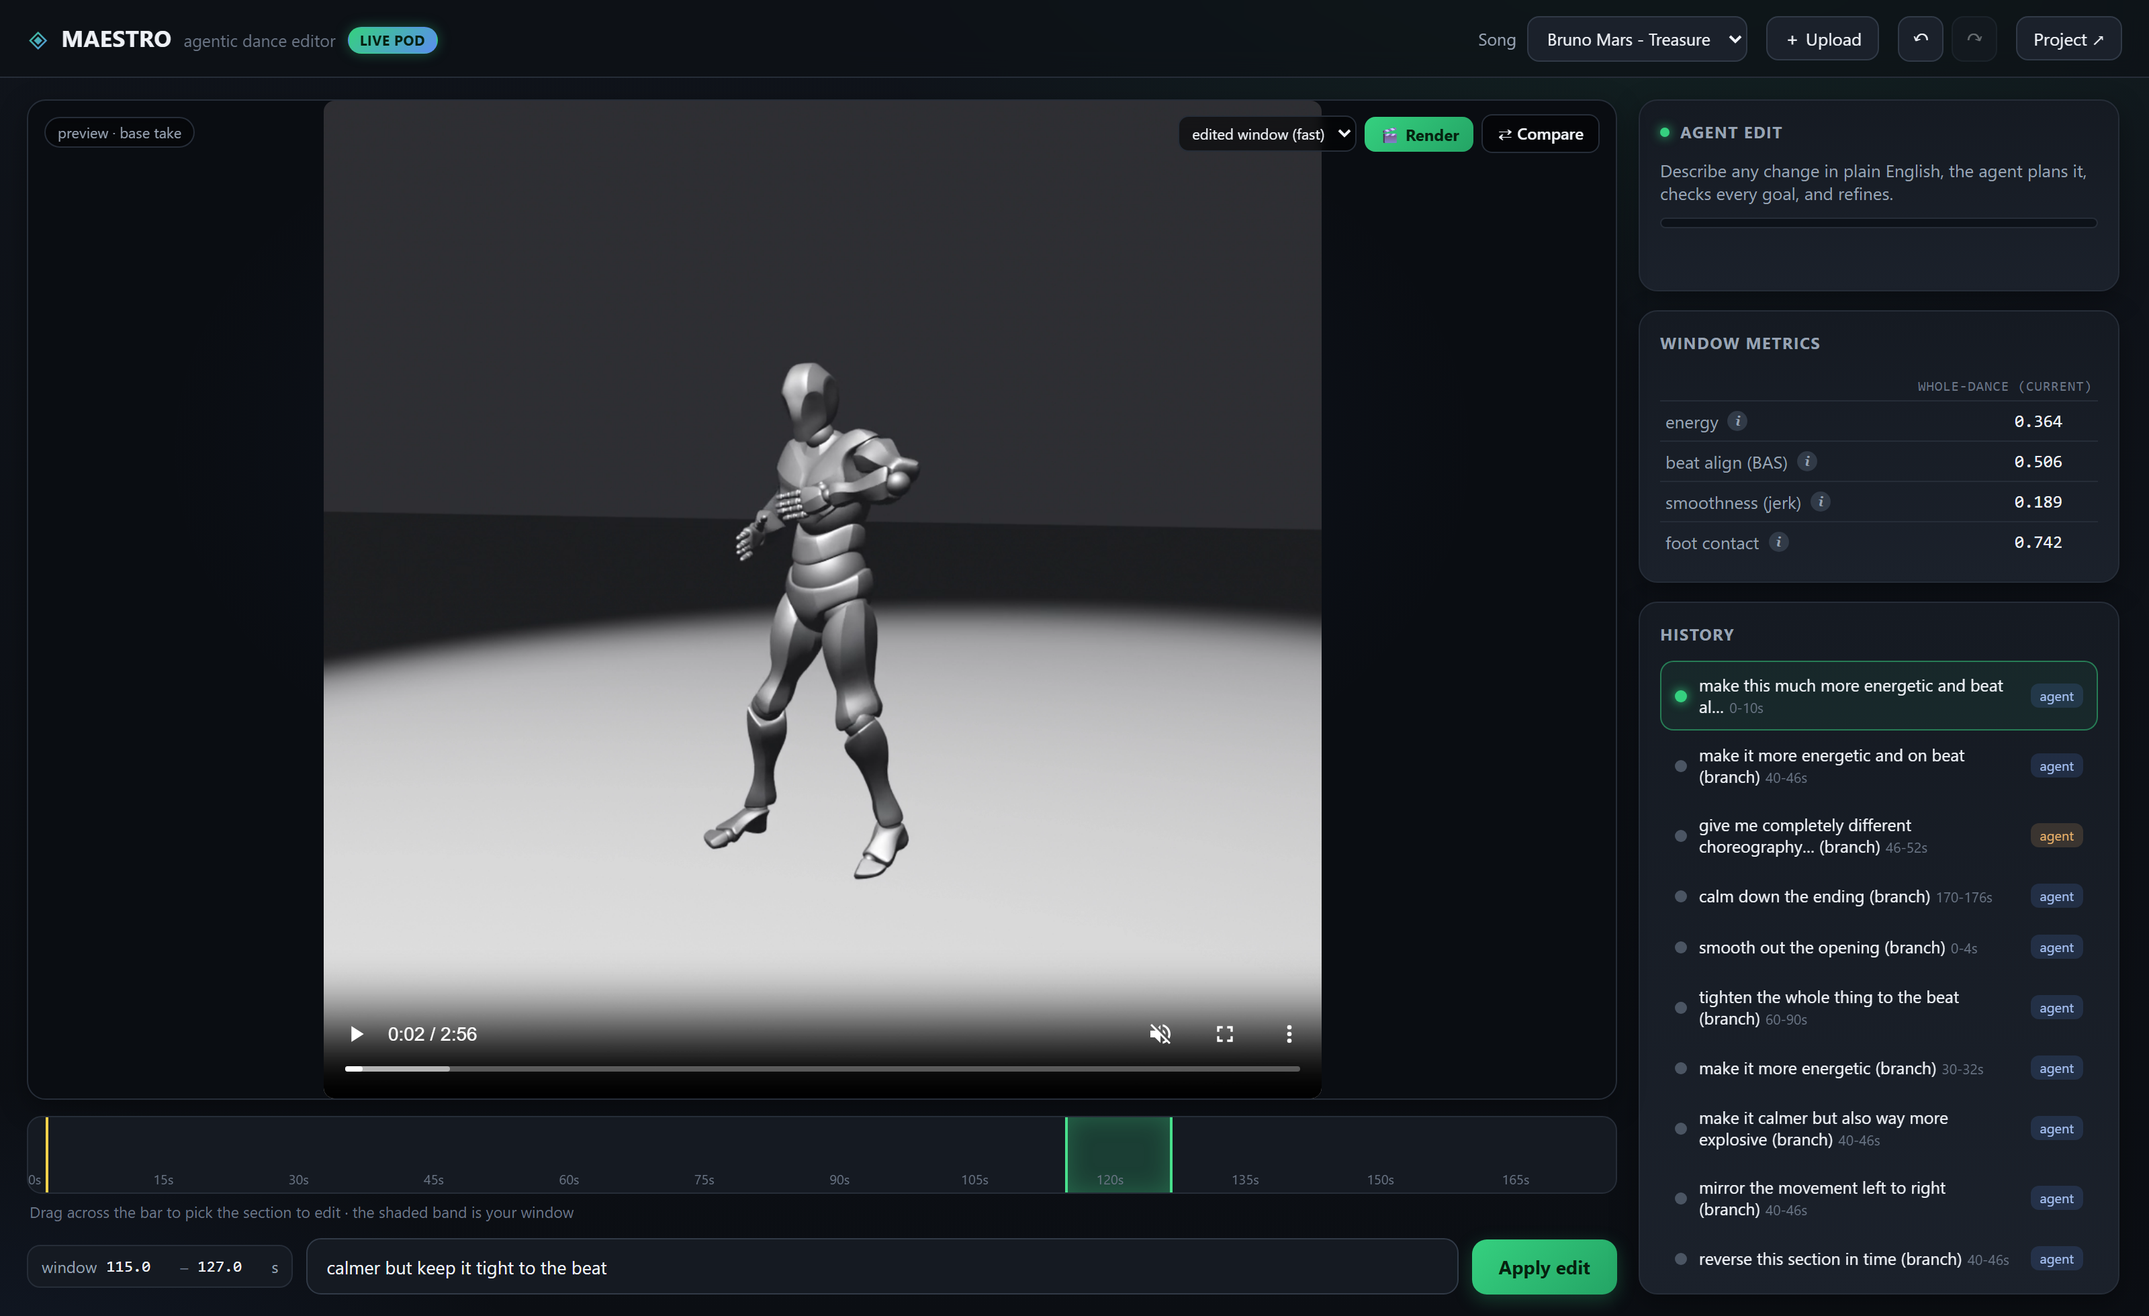
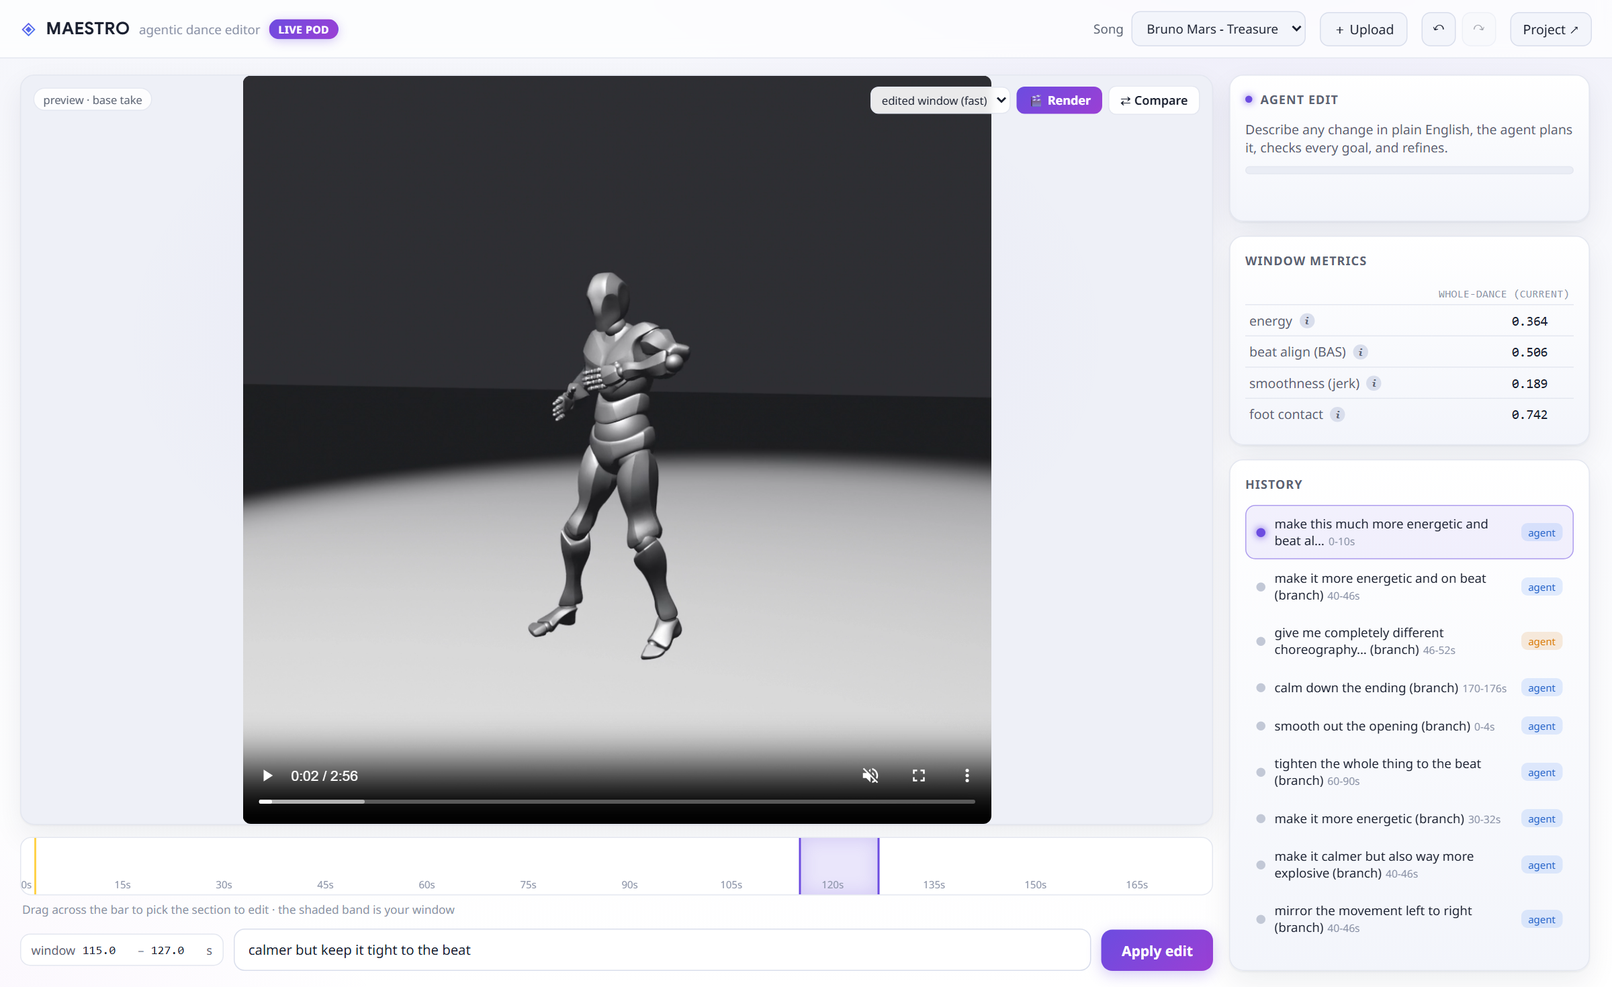
Light-theme the editor to match the project page + slideshow choreography examples
- server/static: convert the editor from the dark/green theme to the light/purple
  palette + Google Sans/Noto Sans fonts used on the project page (topbar, viewer,
  buttons, timeline selection, cards, metrics, reasoning, history, tooltip, toast).
- docs: render the choreography examples as a one-at-a-time carousel (prev/next +
  dots) so they no longer take the full page height.
- docs: refresh the live-editor screenshot to the new light UI.

diff --git a/server/static/style.css b/server/static/style.css
@@ -1,22 +1,23 @@
-/* ============ MAESTRO dance editor, single-viewport, friendly theme ============ */
+/* ============ MAESTRO dance editor, single-viewport, light theme (matches the project page) ============ */
 :root {
-  --bg0: #0b0e13; --bg1: #10141b;
-  --card: #151a22; --card2: #1b212b; --line: #262d38; --line2: #313a47;
-  --text: #eef1f6; --muted: #98a3b3; --faint: #6b7686;
-  --accent: #35d07f; --accent-2: #24a465; --blue: #5b8def; --edge: #f0913a;
-  --lodge: #5b8def; --reuse: #35c07a; --recap: #b473e6;
-  --sel: rgba(53,208,127,.20); --sel-line: #48e08c;
-  --ok: #6fe0a3; --warn: #f0b46a;
-  --shadow: 0 6px 20px rgba(0,0,0,.35); --radius: 14px;
-  --font: "Inter", "Segoe UI", system-ui, -apple-system, sans-serif;
+  --bg0: #ffffff; --bg1: #f5f6fb;
+  --card: #ffffff; --card2: #f3f5fb; --line: #e4e7f0; --line2: #d9deec;
+  --text: #1a2030; --muted: #5a6272; --faint: #8b93a7;
+  --accent: #6c4ce0; --accent-2: #9b3fd4; --blue: #3b82f6; --edge: #9333ea;
+  --lodge: #3b82f6; --reuse: #e0870a; --recap: #9333ea;
+  --sel: rgba(108,76,224,.14); --sel-line: #6c4ce0;
+  --ok: #1a9e5f; --warn: #d97a06;
+  --shadow: 0 1px 2px rgba(20,30,60,.05), 0 12px 30px rgba(20,30,60,.07); --radius: 14px;
+  --font: "Noto Sans", "Segoe UI", system-ui, -apple-system, sans-serif;
+  --head-font: "Google Sans", "Noto Sans", sans-serif;
 }
 * { box-sizing: border-box; }
 html, body { height: 100%; margin: 0; overflow: hidden; }
 body {
   font-family: var(--font); color: var(--text); font-size: 14px;
   background:
-    radial-gradient(1100px 600px at 78% -10%, rgba(53,208,127,.10), transparent 60%),
-    radial-gradient(900px 500px at -5% 110%, rgba(91,141,239,.10), transparent 55%),
+    radial-gradient(1100px 600px at 78% -10%, rgba(108,76,224,.07), transparent 60%),
+    radial-gradient(900px 500px at -5% 110%, rgba(155,63,212,.06), transparent 55%),
     linear-gradient(180deg, var(--bg1), var(--bg0));
 }
 .app { height: 100vh; display: flex; flex-direction: column; }
@@ -25,21 +26,21 @@ body {
 .topbar {
   flex: none; height: 58px; display: flex; align-items: center; justify-content: space-between;
   padding: 0 20px; border-bottom: 1px solid var(--line);
-  background: rgba(12,15,20,.6); backdrop-filter: blur(8px);
+  background: rgba(255,255,255,.72); backdrop-filter: blur(8px);
 }
 .brand { display: flex; align-items: baseline; gap: 9px; }
 .logo {
   font-size: 20px; line-height: 1; background: linear-gradient(135deg, var(--accent), var(--blue));
   -webkit-background-clip: text; background-clip: text; color: transparent; transform: translateY(2px);
 }
-.brand-name { font-weight: 750; font-size: 17px; letter-spacing: .2px; }
+.brand-name { font-weight: 800; font-size: 17px; letter-spacing: .2px; font-family: var(--head-font); }
 .brand-sub { color: var(--faint); font-size: 12.5px; }
 .genbadge {
   font-size: 10.5px; font-weight: 650; letter-spacing: .3px; text-transform: uppercase;
   padding: 2px 8px; border-radius: 999px; cursor: help; transform: translateY(-1px);
   border: 1px solid transparent; white-space: nowrap;
 }
-.genbadge.live { color: #06210f; background: linear-gradient(135deg, var(--accent), var(--blue)); box-shadow: 0 0 10px rgba(53,208,127,.35); }
+.genbadge.live { color: #fff; background: linear-gradient(135deg, var(--accent), var(--accent-2)); box-shadow: 0 2px 10px rgba(108,76,224,.3); }
 .genbadge.bank { color: var(--edge); border-color: rgba(240,145,58,.5); background: rgba(240,145,58,.10); }
 .genbadge.mock { color: var(--faint); border-color: var(--line); background: rgba(255,255,255,.03); }
 .tools { display: flex; align-items: center; gap: 14px; }
@@ -80,35 +81,35 @@ select {
 .viewer {
   flex: 1; min-height: 0; position: relative; display: flex; align-items: center; justify-content: center;
   background:
-    radial-gradient(60% 60% at 50% 35%, rgba(91,141,239,.07), transparent 70%), #0a0d12;
+    radial-gradient(60% 60% at 50% 35%, rgba(108,76,224,.06), transparent 70%), #eef0f7;
   border: 1px solid var(--line); border-radius: var(--radius); overflow: hidden; box-shadow: var(--shadow);
 }
 video { height: 100%; width: auto; max-width: 100%; object-fit: contain; display: block; border-radius: 8px; }
 .viewer-tag {
   position: absolute; top: 12px; left: 12px; font-size: 11px; color: var(--muted);
-  background: rgba(0,0,0,.4); border: 1px solid var(--line); padding: 3px 9px; border-radius: 999px;
+  background: rgba(255,255,255,.85); border: 1px solid var(--line); padding: 3px 9px; border-radius: 999px;
   backdrop-filter: blur(4px);
 }
 .render-ctl { position: absolute; top: 10px; right: 12px; display: flex; gap: 6px; align-items: center; z-index: 6; }
 .render-scope {
-  font-size: 11px; color: var(--text); background: rgba(0,0,0,.55); border: 1px solid var(--line);
+  font-size: 11px; color: var(--text); background: rgba(255,255,255,.9); border: 1px solid var(--line);
   border-radius: 8px; padding: 4px 6px; backdrop-filter: blur(4px); cursor: pointer;
 }
 .render-btn {
-  font-size: 12px; font-weight: 650; color: #06210f; cursor: pointer; padding: 5px 11px;
+  font-size: 12px; font-weight: 650; color: #fff; cursor: pointer; padding: 5px 11px;
   border: none; border-radius: 8px; background: linear-gradient(135deg, var(--accent), var(--accent-2));
 }
 .render-btn:disabled { opacity: .55; cursor: default; }
 .render-status {
   position: absolute; top: 46px; right: 12px; display: none; max-width: 60%; z-index: 6;
-  font-size: 11px; color: var(--muted); background: rgba(0,0,0,.6); border: 1px solid var(--line);
+  font-size: 11px; color: var(--muted); background: rgba(255,255,255,.9); border: 1px solid var(--line);
   padding: 4px 10px; border-radius: 999px; backdrop-filter: blur(4px);
 }
 .render-status.ok { color: var(--ok); border-color: rgba(53,208,127,.4); }
 .render-status.bad { color: var(--warn); border-color: rgba(240,180,106,.4); }
 
 /* before/after comparison panel */
-.render-btn.ghost { background: rgba(0,0,0,.5); color: var(--text); border: 1px solid var(--line); font-weight: 600; }
+.render-btn.ghost { background: rgba(255,255,255,.9); color: var(--text); border: 1px solid var(--line); font-weight: 600; }
 .compare {
   margin-top: 10px; background: var(--card); border: 1px solid var(--line);
   border-radius: var(--radius); padding: 12px; box-shadow: var(--shadow);
@@ -135,11 +136,11 @@ video { height: 100%; width: auto; max-width: 100%; object-fit: contain; display
   border-radius: 11px; overflow: hidden; cursor: crosshair; user-select: none;
 }
 .beats { position: absolute; inset: 0; pointer-events: none; }
-.beats i { position: absolute; top: 0; bottom: 20px; width: 1px; background: #2b333f; }
+.beats i { position: absolute; top: 0; bottom: 20px; width: 1px; background: #d3d9e6; }
 .selection {
   position: absolute; top: 0; bottom: 0; background: var(--sel);
   border-left: 2px solid var(--sel-line); border-right: 2px solid var(--sel-line);
-  display: none; pointer-events: none; box-shadow: 0 0 18px rgba(72,224,140,.25) inset;
+  display: none; pointer-events: none; box-shadow: 0 0 18px rgba(108,76,224,.20) inset;
 }
 .playhead { position: absolute; top: 0; bottom: 0; width: 2px; background: #ffd24a; left: 0; pointer-events: none; }
 .ticks { position: absolute; left: 0; right: 0; bottom: 3px; height: 14px; pointer-events: none; }
@@ -162,11 +163,11 @@ video { height: 100%; width: auto; max-width: 100%; object-fit: contain; display
   font-size: 13.5px;
 }
 .instr::placeholder { color: var(--faint); }
-.instr:focus { outline: none; border-color: var(--accent); box-shadow: 0 0 0 3px rgba(53,208,127,.14); }
+.instr:focus { outline: none; border-color: var(--accent); box-shadow: 0 0 0 3px rgba(108,76,224,.16); }
 .apply {
   flex: none; padding: 11px 20px; border-radius: 11px; border: none; cursor: pointer; font-weight: 650;
-  color: #06210f; background: linear-gradient(135deg, var(--accent), var(--accent-2));
-  box-shadow: 0 4px 14px rgba(53,208,127,.25); transition: .12s;
+  color: #fff; background: linear-gradient(135deg, var(--accent), var(--accent-2));
+  box-shadow: 0 4px 14px rgba(108,76,224,.28); transition: .12s;
 }
 .apply:hover:not(:disabled) { filter: brightness(1.06); transform: translateY(-1px); }
 .apply:disabled { opacity: .55; cursor: default; box-shadow: none; }
@@ -177,7 +178,7 @@ video { height: 100%; width: auto; max-width: 100%; object-fit: contain; display
   font-size: 12px; padding: 6px 12px; border-radius: 999px; background: var(--card); color: var(--muted);
   border: 1px solid var(--line); cursor: pointer; transition: .12s;
 }
-.chip:hover { color: var(--text); border-color: var(--accent); background: rgba(53,208,127,.08); }
+.chip:hover { color: var(--text); border-color: var(--accent); background: rgba(108,76,224,.08); }
 
 /* ---------- right column ---------- */
 .side-col { display: flex; flex-direction: column; gap: 14px; min-height: 0; padding-right: 2px; }
@@ -199,7 +200,7 @@ video { height: 100%; width: auto; max-width: 100%; object-fit: contain; display
 .goal .tag { display: inline-block; padding: 2px 9px; border-radius: 6px; font-weight: 650; color: #fff; margin-right: 6px; font-size: 12px; }
 .tag.edge { background: var(--edge); } .tag.lodge { background: var(--lodge); }
 .tag.none { background: #6b7686; } .tag.auto { background: #7a6bd6; }
-.progwrap { height: 8px; background: #0d1219; border: 1px solid var(--line); border-radius: 6px; overflow: hidden; }
+.progwrap { height: 8px; background: #eaedf5; border: 1px solid var(--line); border-radius: 6px; overflow: hidden; }
 .progbar { height: 100%; width: 0; border-radius: 6px; background: linear-gradient(90deg, var(--blue), var(--accent)); transition: width .12s ease; }
 #progtext { margin-top: 7px; min-height: 15px; }
 .feedback { margin-top: 9px; font-size: 13px; line-height: 1.4; }
@@ -210,11 +211,11 @@ video { height: 100%; width: auto; max-width: 100%; object-fit: contain; display
 .checks:empty { margin-top: 0; }
 .chk {
   font-size: 11.5px; padding: 3px 9px; border-radius: 999px; border: 1px solid var(--line2);
-  background: rgba(255,255,255,.03); color: var(--muted); white-space: nowrap;
+  background: rgba(20,30,60,.03); color: var(--muted); white-space: nowrap;
 }
 .chk b { font-variant-numeric: tabular-nums; font-weight: 650; }
-.chk.met { color: var(--ok); border-color: rgba(53,208,127,.4); background: rgba(53,208,127,.08); }
-.chk.miss { color: var(--warn); border-color: rgba(240,180,106,.4); background: rgba(240,180,106,.08); }
+.chk.met { color: var(--ok); border-color: rgba(26,158,95,.4); background: rgba(26,158,95,.08); }
+.chk.miss { color: var(--warn); border-color: rgba(217,122,6,.4); background: rgba(217,122,6,.08); }
 
 /* expandable agent reasoning (planner + executor + verify) */
 .reasoning { margin-top: 11px; border-top: 1px solid var(--line); padding-top: 9px; }
@@ -236,7 +237,7 @@ video { height: 100%; width: auto; max-width: 100%; object-fit: contain; display
 .planner-tag { font-size: 10px; font-weight: 650; color: var(--warn); border: 1px solid rgba(240,180,106,.4);
   background: rgba(240,180,106,.1); padding: 1px 7px; border-radius: 999px; margin-left: 6px; cursor: help; white-space: nowrap; }
 .rz-attempt { border: 1px solid var(--line); border-radius: 10px; padding: 9px 10px; margin-bottom: 8px;
-  background: rgba(255,255,255,.02); }
+  background: rgba(20,30,60,.02); }
 .rz-head { display: flex; align-items: center; gap: 8px; font-size: 12px; font-weight: 700; color: var(--text); }
 .rz-verdict { font-size: 10px; font-weight: 650; padding: 1px 8px; border-radius: 999px; text-transform: uppercase; letter-spacing: .3px; }
 .rz-verdict.ok { color: var(--ok); background: rgba(53,208,127,.12); border: 1px solid rgba(53,208,127,.35); }
@@ -247,10 +248,10 @@ video { height: 100%; width: auto; max-width: 100%; object-fit: contain; display
 .rz-steps li { font-size: 12px; line-height: 1.4; color: var(--muted); display: flex; flex-wrap: wrap; align-items: baseline; gap: 5px; }
 .rz-tool { font-weight: 650; color: var(--blue); }
 .rz-note { color: var(--muted); flex: 1 1 60%; }
-.rz-params { font-size: 10.5px; color: var(--faint); background: rgba(255,255,255,.04); padding: 0 5px; border-radius: 5px; }
+.rz-params { font-size: 10.5px; color: var(--faint); background: rgba(20,30,60,.05); padding: 0 5px; border-radius: 5px; }
 .rz-badge { font-size: 9.5px; font-weight: 700; text-transform: uppercase; letter-spacing: .3px; padding: 1px 6px; border-radius: 5px; flex: none; }
-.rz-badge.applied { color: #06210f; background: var(--accent); }
-.rz-badge.rejected { color: #3a2408; background: var(--warn); }
+.rz-badge.applied { color: #fff; background: var(--accent); }
+.rz-badge.rejected { color: #fff; background: var(--warn); }
 .rz-badge.failed, .rz-badge.skipped { color: var(--muted); background: var(--line2); }
 .ex-rejected .rz-note { color: var(--warn); }
 .rz-checks { list-style: none; margin: 0; padding: 0; display: flex; flex-direction: column; gap: 2px; }
@@ -277,12 +278,12 @@ video { height: 100%; width: auto; max-width: 100%; object-fit: contain; display
   display: inline-grid; place-items: center; background: var(--line2); color: var(--muted);
   cursor: help; position: relative; font-family: Georgia, "Times New Roman", serif;
 }
-.info:hover, .info:focus { background: var(--accent); color: #06210f; outline: none; }
+.info:hover, .info:focus { background: var(--accent); color: #fff; outline: none; }
 .info::after {
   content: attr(data-tip);
   position: absolute; left: -2px; top: 145%; z-index: 60;
   width: 244px; padding: 11px 13px; border-radius: 11px;
-  background: #0c1118; border: 1px solid var(--line2); color: var(--text);
+  background: #1a2030; border: 1px solid #2a3350; color: #f5f6fb;
   font: 400 12px/1.5 var(--font); font-style: normal; text-align: left;
   box-shadow: var(--shadow);
   opacity: 0; visibility: hidden; transform: translateY(-4px); transition: .14s; pointer-events: none;
@@ -304,18 +305,18 @@ video { height: 100%; width: auto; max-width: 100%; object-fit: contain; display
   border: 1px solid transparent; cursor: pointer; transition: .1s;
 }
 .history li:hover { background: var(--card2); border-color: var(--line2); }
-.history li.head { border-color: rgba(53,208,127,.5); background: rgba(53,208,127,.08); }
-.history .dot { width: 9px; height: 9px; border-radius: 50%; background: #4b5563; flex: none; }
+.history li.head { border-color: rgba(108,76,224,.5); background: rgba(108,76,224,.08); }
+.history .dot { width: 9px; height: 9px; border-radius: 50%; background: #c2c8d6; flex: none; }
 .history li.head .dot { background: var(--accent); box-shadow: 0 0 8px var(--accent); }
 .history .lbl { flex: 1; font-size: 12.5px; }
 .history .lbl small { color: var(--faint); margin-left: 4px; }
-.history .badge2 { font-size: 10px; padding: 2px 7px; border-radius: 6px; background: rgba(91,141,239,.16); color: #a9c4f7; }
-.history .badge2.bad { background: rgba(240,180,106,.16); color: var(--warn); }
+.history .badge2 { font-size: 10px; padding: 2px 7px; border-radius: 6px; background: rgba(59,130,246,.14); color: #2563c9; }
+.history .badge2.bad { background: rgba(217,122,6,.14); color: var(--warn); }
 
 /* toast */
 .toast {
   position: fixed; bottom: 22px; left: 50%; transform: translateX(-50%) translateY(8px);
-  background: #1c232e; border: 1px solid var(--line2); padding: 10px 18px; border-radius: 11px;
+  background: #1a2030; color: #fff; border: 1px solid #2a3350; padding: 10px 18px; border-radius: 11px;
   box-shadow: var(--shadow); opacity: 0; transition: .22s; pointer-events: none; font-size: 13px;
 }
 .toast.show { opacity: 1; transform: translateX(-50%) translateY(0); }

diff --git a/docs/static/js/app.js b/docs/static/js/app.js
@@ -146,6 +146,62 @@
     });
   }
 
+  function buildCarousel(host, cards, songs) {
+    const wrap = document.createElement("div");
+    wrap.className = "carousel";
+    const vp = document.createElement("div");
+    vp.className = "car-viewport";
+    const track = document.createElement("div");
+    track.className = "car-track";
+    cards.forEach((c) => {
+      const slide = document.createElement("div");
+      slide.className = "car-slide";
+      slide.appendChild(c);
+      track.appendChild(slide);
+    });
+    vp.appendChild(track);
+    const prev = document.createElement("button");
+    prev.className = "car-nav prev";
+    prev.type = "button";
+    prev.setAttribute("aria-label", "Previous example");
+    prev.innerHTML = "&#8249;";
+    const next = document.createElement("button");
+    next.className = "car-nav next";
+    next.type = "button";
+    next.setAttribute("aria-label", "Next example");
+    next.innerHTML = "&#8250;";
+    wrap.append(prev, vp, next);
+
+    const dotsWrap = document.createElement("div");
+    dotsWrap.className = "car-dots";
+    const dots = cards.map((_, i) => {
+      const d = document.createElement("button");
+      d.className = "car-dot";
+      d.type = "button";
+      d.title = (songs[i] && songs[i].title) || "example " + (i + 1);
+      d.setAttribute("aria-label", d.title);
+      d.addEventListener("click", () => go(i));
+      dotsWrap.appendChild(d);
+      return d;
+    });
+
+    let idx = 0;
+    function go(i) {
+      idx = (i + cards.length) % cards.length;
+      track.style.transform = `translateX(-${idx * 100}%)`;
+      dots.forEach((d, j) => d.classList.toggle("on", j === idx));
+      cards.forEach((c, j) => {                 // pause videos that scrolled out of view
+        const v = c.querySelector("video");
+        if (v && j !== idx) v.pause();
+      });
+    }
+    prev.addEventListener("click", () => go(idx - 1));
+    next.addEventListener("click", () => go(idx + 1));
+    host.appendChild(wrap);
+    host.appendChild(dotsWrap);
+    go(0);
+  }
+
   async function main() {
     await fixEditorLinks();
     const host = document.getElementById("songs");
@@ -154,10 +210,12 @@
     try { songs = await getJSON(DATA + "songs.json"); }
     catch (e) { host.innerHTML = `<p class="loading">Could not load demo data.</p>`; return; }
     host.innerHTML = "";
+    const cards = [];
     for (const s of songs) {
-      try { host.appendChild(await renderSong(s)); }
+      try { cards.push(await renderSong(s)); }
       catch (e) { console.warn("song " + s.id, e); }
     }
+    if (cards.length) buildCarousel(host, cards, songs);
   }
   document.addEventListener("DOMContentLoaded", main);
 })();

diff --git a/docs/static/css/style.css b/docs/static/css/style.css
@@ -148,3 +148,26 @@ pre.bibtex { background: var(--card-2); border: 1px solid var(--line); border-ra
 .footer-m a { color: var(--brand-2); }
 
 .loading { color: var(--muted); text-align: center; padding: 2rem; }
+
+/* ---------------- choreography carousel (one example at a time) ---------------- */
+.carousel { display: flex; align-items: center; gap: 0.6rem; }
+.car-viewport { overflow: hidden; flex: 1; border-radius: 18px; }
+.car-track { display: flex; transition: transform 0.35s cubic-bezier(0.4, 0, 0.2, 1); }
+.car-slide { min-width: 100%; box-sizing: border-box; padding: 0 2px; }
+.car-slide .song { margin-bottom: 0; }
+.car-nav {
+  flex: none; width: 46px; height: 46px; border-radius: 50%; border: 1px solid var(--line);
+  background: var(--card); color: var(--brand); font-size: 1.7rem; line-height: 1; cursor: pointer;
+  display: grid; place-items: center; box-shadow: 0 2px 10px rgba(20,30,60,.08);
+  transition: transform .12s ease, border-color .12s ease, background .12s ease;
+}
+.car-nav:hover { border-color: var(--brand); background: var(--card-2); transform: translateY(-1px); }
+.car-nav:active { transform: translateY(0); }
+.car-dots { display: flex; justify-content: center; gap: 0.55rem; margin-top: 1.1rem; }
+.car-dot {
+  width: 9px; height: 9px; border-radius: 50%; border: none; background: var(--line);
+  cursor: pointer; padding: 0; transition: transform .15s ease, background .15s ease;
+}
+.car-dot:hover { background: var(--brand-2); }
+.car-dot.on { background: var(--brand); transform: scale(1.3); }
+@media (max-width: 640px) { .car-nav { width: 36px; height: 36px; font-size: 1.4rem; } }

diff --git a/server/static/index.html b/server/static/index.html
@@ -5,6 +5,7 @@
 <meta name="viewport" content="width=device-width, initial-scale=1" />
 <title>MAESTRO Dance Editor</title>
 <link rel="preconnect" href="https://fonts.googleapis.com" />
+<link href="https://fonts.googleapis.com/css2?family=Google+Sans:wght@500;700;800&family=Noto+Sans:wght@400;600;700&display=swap" rel="stylesheet" />
 <link rel="stylesheet" href="/static/style.css" />
 </head>
 <body>
